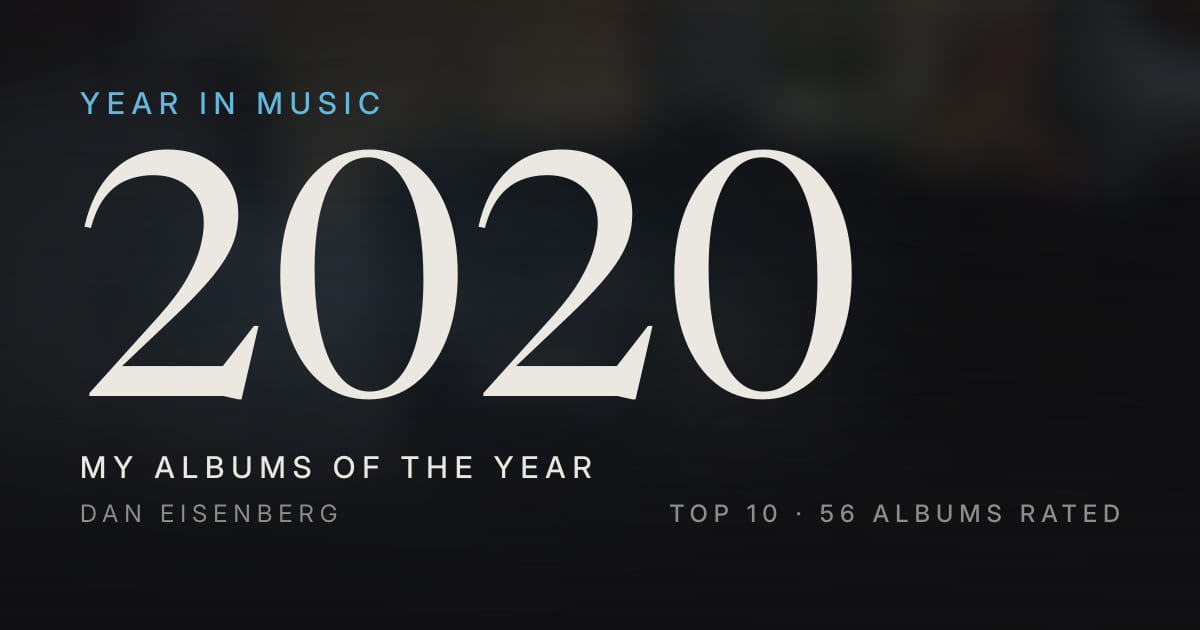
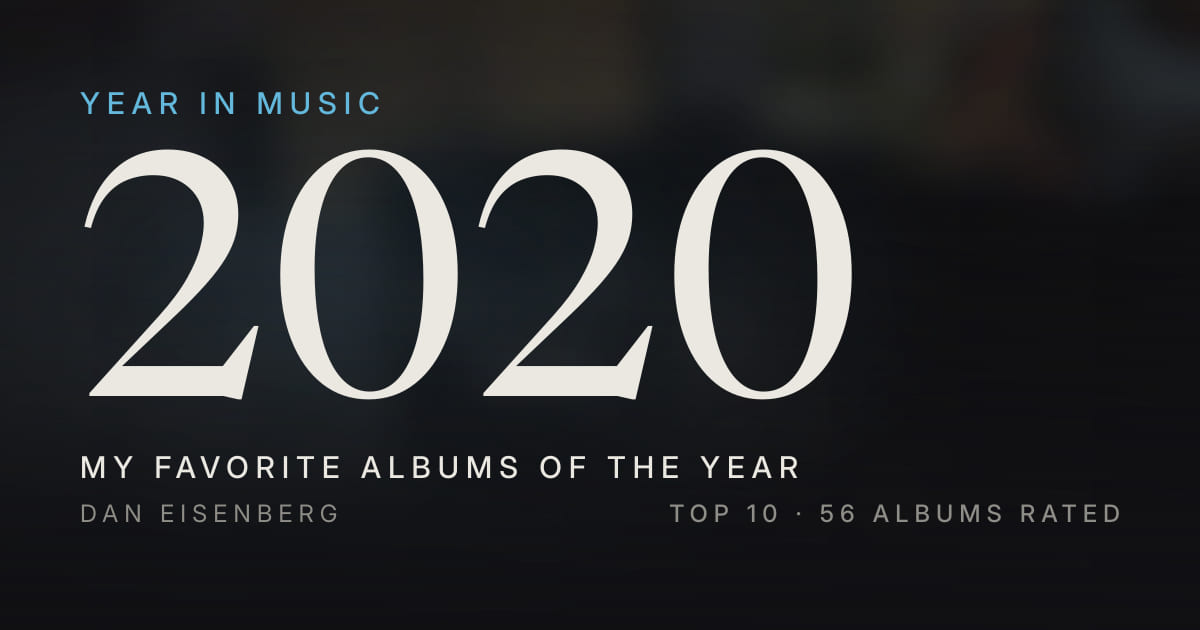
Rename the hero subtitle to "My favorite albums of the year"
Both locales (pt-BR: "Meus álbuns favoritos do ano"). The landscape share
cards carry this line, so they are regenerated; square cards are unchanged.

Changed region(s): [[0.1233, 0.7238, 0.6783, 0.7841]]

diff --git a/src/lib/i18n/translations.ts b/src/lib/i18n/translations.ts
@@ -61,7 +61,7 @@ function capitalize(text: string): string {
 const ptBR = {
 	siteName: 'Year in Music',
 	siteTagline: 'Um arquivo pessoal de álbuns do ano',
-	heroTitle: 'Meus álbuns do ano',
+	heroTitle: 'Meus álbuns favoritos do ano',
 	topN: (n: number) => `Top ${n}`,
 	statsKicker: 'Estatísticas',
 	albumsRated: 'álbuns avaliados',
@@ -175,7 +175,7 @@ type Dictionary = typeof ptBR;
 const en: Dictionary = {
 	siteName: 'Year in Music',
 	siteTagline: 'A personal archive of albums of the year',
-	heroTitle: 'My albums of the year',
+	heroTitle: 'My favorite albums of the year',
 	topN: (n) => `Top ${n}`,
 	statsKicker: 'Statistics',
 	albumsRated: 'albums rated',
